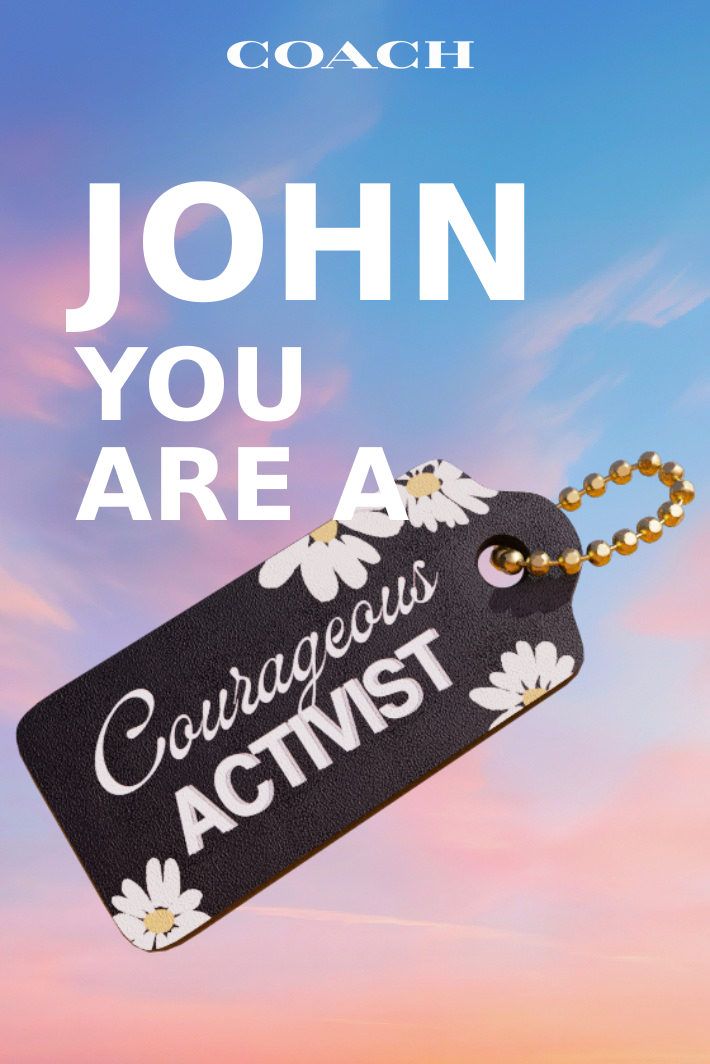
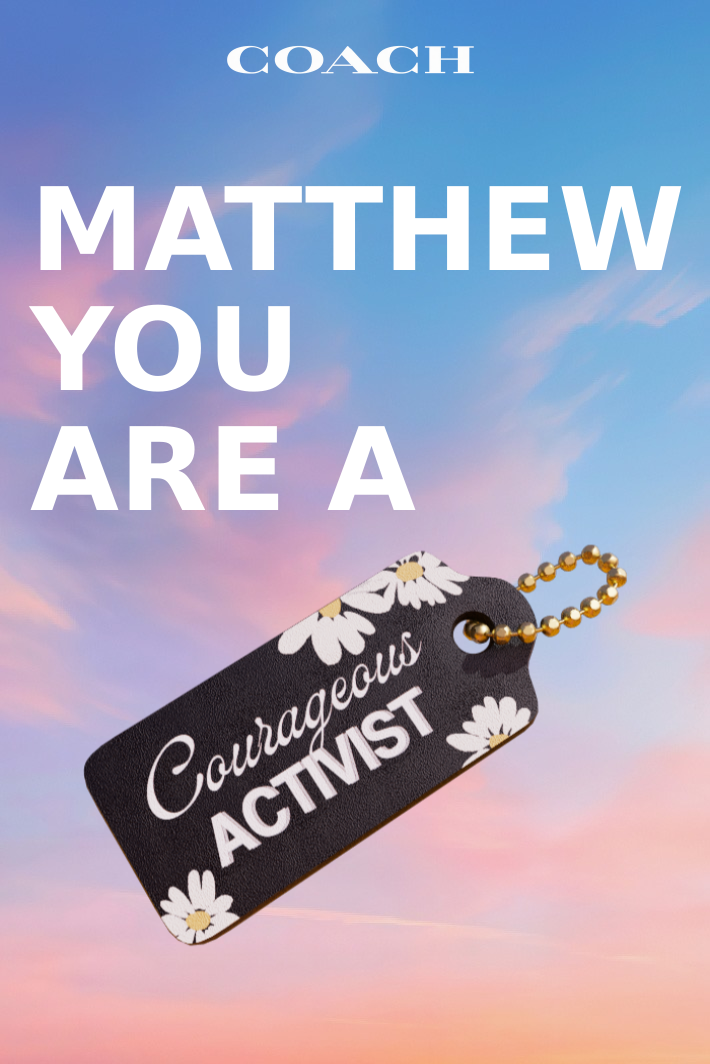
push

Changed region(s): [[0.0, 0.1551, 0.9915, 0.8994], [0.3099, 0.031, 0.6507, 0.093]]

diff --git a/src/index.js b/src/index.js
@@ -1,7 +1,7 @@
 const { createCanvas, loadImage } = require('canvas');
 const canvas = createCanvas(710, 1064);
 const ctx = canvas.getContext('2d');
-
+const fs = require("fs")
 let cloudImg, logoImg, tagImg;
 
 async function loadAssets(color) {
@@ -41,18 +41,25 @@ async function Main(name, color) {
   }
 
   ctx.drawImage(cloudImg, 0, 0);
-  ctx.drawImage(logoImg, 225, 20);
-  ctx.drawImage(tagImg, 0, 440, 710, 523);
+  ctx.drawImage(logoImg, 225, 25);
+  ctx.drawImage(tagImg, canvas.width * 0.5 -710 * 0.8 * 0.5 , canvas.height * 0.7 -523 * 0.8 * 0.5, 710 * 0.8, 523 * 0.8);
 
-  ctx.font = "bold 160px 'Helvetica LT Pro Bold'";
+  ctx.font = "bold 115px 'Helvetica LT Pro Bold'";
   ctx.fillStyle = 'white';
-  ctx.fillText(name, 75, 300);
+  ctx.fillText(name, 30, 270);
 
-  ctx.font = "bold 100px 'Helvetica LT Pro Bold'";
-  ctx.fillText('YOU', 75, 420);
-  ctx.fillText('ARE A', 75, 520);
+  ctx.font = "bold 115px 'Helvetica LT Pro Bold'";
+  ctx.fillText('YOU', 30, 390);
+  ctx.fillText('ARE A', 30, 510);
 
   return canvas.toBuffer();
 }
+
+// async function debug(){
+//   let  _ = await Main("MATTHEW" , "black");
+//   fs.writeFile("test.png" , _)
+// }
+
+// debug()
 
 module.exports = Main;
